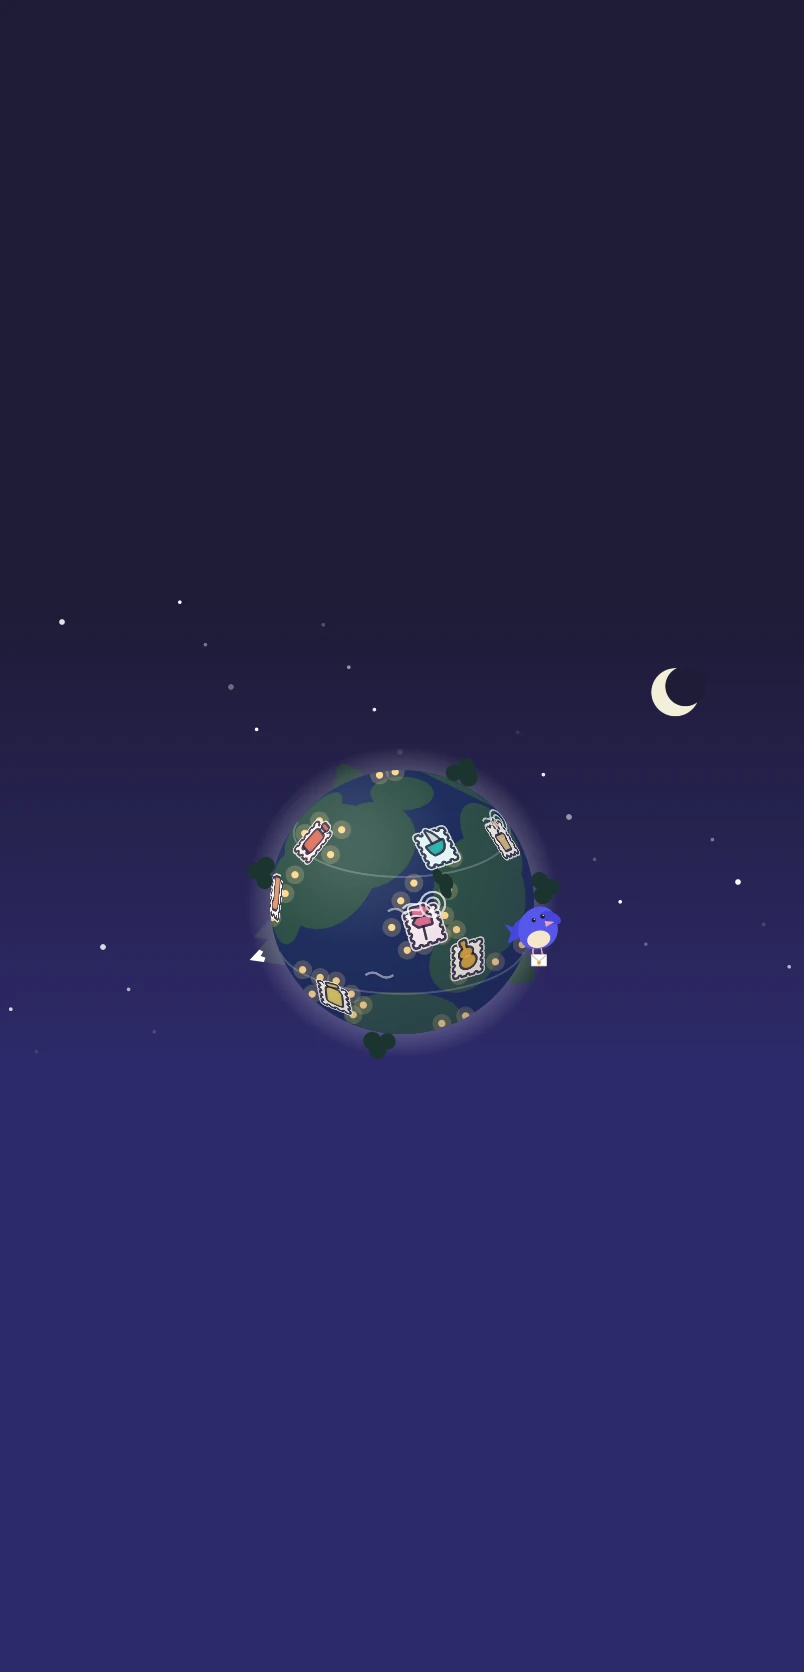
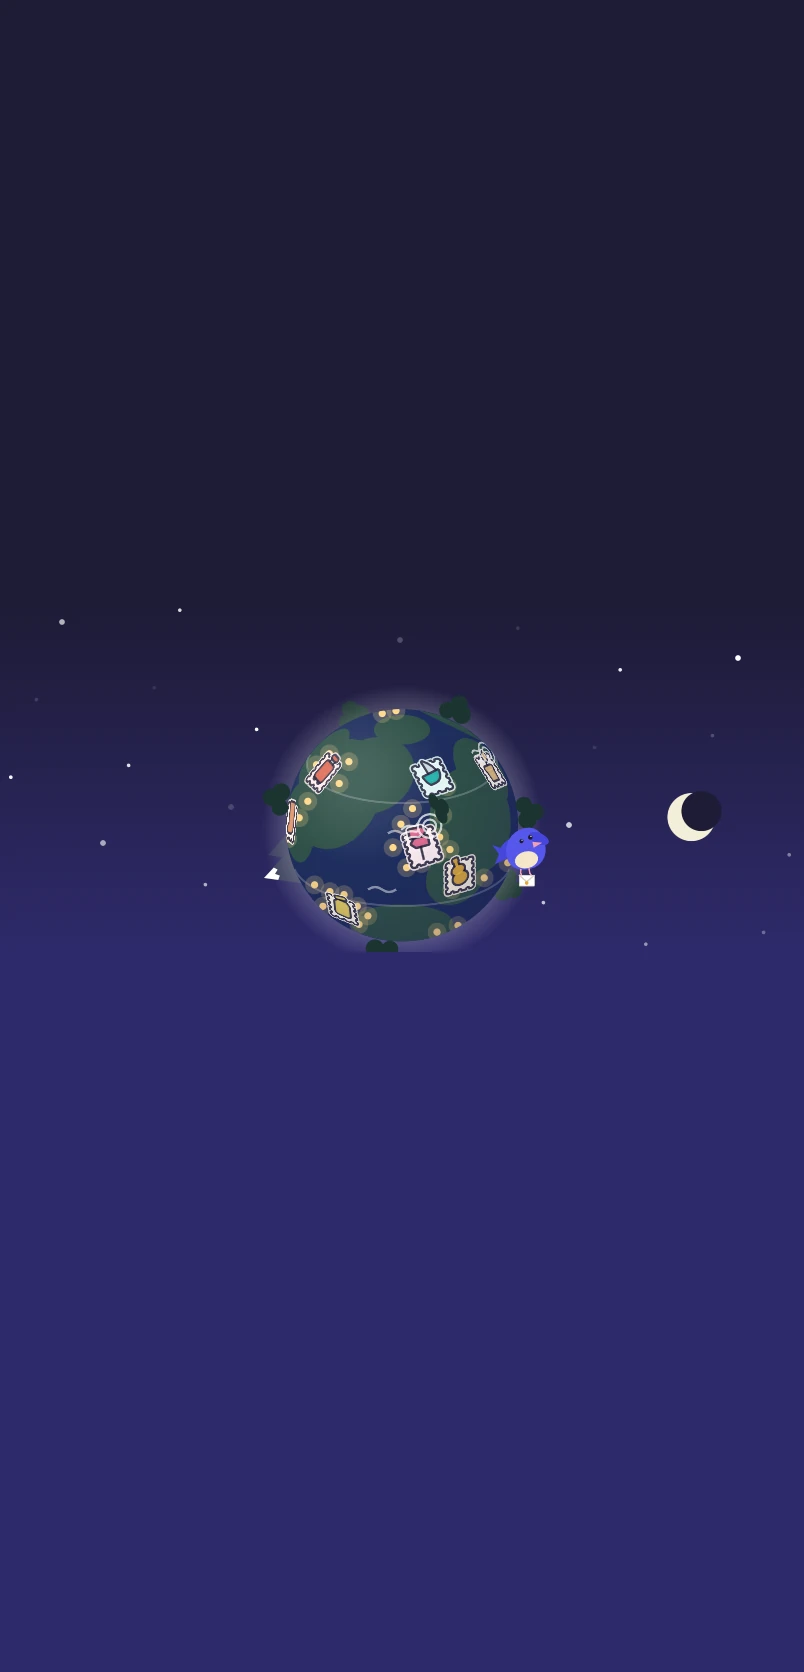
The cover prototype, round three: a shorter cover, the badge with her journey
The owner: the cover shows too much, his face a little higher; her card is the badge's head
(without KINDREDLY POST) with her standing as the journey's card has her, and her journey; and
the sign-and-gender pill under the name, as his older product has it. Under the cover now: the
name, that pill, two numbers (kindreds, pen pals), Edit and the gear. The two ways in on the
cover are a picture and a number each.

Changed region(s): [[0.3109, 0.4043, 0.7152, 0.6531], [0.8085, 0.4665, 0.9017, 0.5287], [0.8085, 0.4043, 0.8706, 0.4354]]

diff --git a/design/courier-planet/cover-prototype/me-cover.html b/design/courier-planet/cover-prototype/me-cover.html
@@ -69,9 +69,9 @@ h1 { font-size: 24px; line-height: 1.25; margin: 0; font-weight: 650; text-wrap:
   font-family: -apple-system, BlinkMacSystemFont, "SF Pro Text", "Helvetica Neue", sans-serif;
 }
 .phone.held { cursor: grabbing; }
-.banner { position: absolute; left: 0; top: 0; width: 402px; height: 268px; overflow: hidden; z-index: 2; background: #E3F3FB; }
+.banner { position: absolute; left: 0; top: 0; width: 402px; height: 196px; overflow: hidden; z-index: 2; background: #E3F3FB; }
 .phone.night .banner { background: #2E2A6B; }
-.scene { position: absolute; left: 0; top: 0; width: 402px; height: 836px; max-width: none; transform-origin: 201px 451px; pointer-events: none; }
+.scene { position: absolute; left: 0; top: 0; width: 402px; height: 836px; max-width: none; transform-origin: 201px 412.6px; pointer-events: none; }
 .island { position: absolute; left: 138px; top: 11px; width: 126px; height: 37px; border-radius: 19px; background: #000; z-index: 6; pointer-events: none; }
 .status { position: absolute; left: 0; top: 0; width: 402px; height: 54px; z-index: 6; pointer-events: none; color: #1E1B35; }
 .phone.night .status, .phone.night .bar, .phone.night .pullhint { color: #FFFFFF; }
@@ -79,10 +79,10 @@ h1 { font-size: 24px; line-height: 1.25; margin: 0; font-weight: 650; text-wrap:
 .status .batt { position: absolute; right: 34px; top: 21px; width: 27px; height: 13px; border-radius: 4px; border: 1.5px solid currentColor; opacity: .9; }
 .status .batt::after { content: ""; position: absolute; left: 2px; top: 2px; bottom: 2px; width: 15px; border-radius: 1.5px; background: currentColor; }
 .pullhint { position: absolute; left: 16px; top: 62px; font: 600 9.5px/1 var(--label); letter-spacing: .14em; opacity: .6; color: #1F5C33; pointer-events: none; }
-.chips { position: absolute; left: 14px; bottom: 12px; display: flex; gap: 8px; }
+.chips { position: absolute; left: 14px; bottom: 10px; display: flex; gap: 8px; }
 .chip {
-  display: inline-flex; align-items: center; gap: 7px; height: 34px; padding: 0 11px 0 7px; border-radius: 11px;
-  font: 700 11px/1 var(--label); letter-spacing: .12em; background: rgba(255, 255, 255, .72); color: #1E1B35;
+  display: inline-flex; align-items: center; gap: 6px; height: 34px; padding: 0 11px 0 7px; border-radius: 11px;
+  font: 700 13px/1 var(--label); letter-spacing: .04em; background: rgba(255, 255, 255, .72); color: #1E1B35; font-variant-numeric: tabular-nums;
 }
 .chip img { display: block; flex: none; }
 .phone.night .chip { background: rgba(255, 255, 255, .16); color: #FFFFFF; }
@@ -90,21 +90,23 @@ h1 { font-size: 24px; line-height: 1.25; margin: 0; font-weight: 650; text-wrap:
 .bar .n { font: 600 17px/1 -apple-system, "SF Pro Text", sans-serif; flex: 1; }
 .bar svg { width: 20px; height: 20px; flex: none; }
 .avatar {
-  position: absolute; right: 16px; top: 224px; width: 88px; height: 88px; border-radius: 50%; z-index: 4;
+  position: absolute; right: 16px; top: 138px; width: 88px; height: 88px; border-radius: 50%; z-index: 4;
   background: #CFE3F5; box-shadow: 0 0 0 4px #FFFFFF; transform-origin: 50% 100%; pointer-events: none;
 }
 .avatar::after { content: ""; position: absolute; left: 30px; top: 30px; width: 28px; height: 28px; border-radius: 50%; background: #55607C; }
 .content { position: absolute; left: 0; top: 0; width: 402px; z-index: 1; background: #FFFFFF; will-change: transform; }
-.id { padding: 14px 16px 8px; }
-.id .name { font: 700 22px/1.15 -apple-system, "SF Pro Display", sans-serif; letter-spacing: -.01em; padding-right: 112px; }
-.id .facts { margin-top: 7px; font: 400 15px/1.2 -apple-system, sans-serif; color: #55506E; }
-.id .facts b { font-weight: 600; color: #1E1B35; font-variant-numeric: tabular-nums; }
-.id .facts svg { width: 11px; height: 11px; vertical-align: -1px; color: #B6B2D0; }
-.id .row { margin-top: 10px; display: flex; align-items: center; }
-.id .joined { font: 400 13px/1 -apple-system, sans-serif; color: #55506E; }
+.id { padding: 12px 16px 12px; }
+.id .name { font: 700 24px/1.15 -apple-system, "SF Pro Display", sans-serif; letter-spacing: -.01em; padding-right: 112px; }
+.id .sign { margin-top: 9px; display: inline-flex; align-items: center; gap: 5px; height: 26px; padding: 0 11px 0 8px; border-radius: 13px; background: #F1F0EE; color: #55506E; font: 500 13px/1 -apple-system, sans-serif; }
+.id .sign svg { width: 15px; height: 15px; flex: none; }
+.id .sign span { margin-left: 1px; }
+.id .tick { margin-top: 14px; width: 28px; height: 2px; border-radius: 1px; background: #E6E4EC; }
+.id .row { margin-top: 12px; display: flex; align-items: center; gap: 30px; }
+.id .stat b { display: block; font: 600 20px/1 -apple-system, sans-serif; font-variant-numeric: tabular-nums; }
+.id .stat span { display: block; margin-top: 6px; font: 400 13px/1 -apple-system, sans-serif; color: #8A86A3; }
 .id .acts { margin-left: auto; display: flex; align-items: center; gap: 8px; }
-.id .edit { display: inline-flex; align-items: center; gap: 6px; height: 34px; padding: 0 14px 0 12px; border-radius: 17px; background: #F1F0EE; font: 600 14px/1 -apple-system, sans-serif; }
-.id .gear { width: 34px; height: 34px; border-radius: 50%; background: #F1F0EE; display: grid; place-items: center; }
+.id .edit { display: inline-flex; align-items: center; gap: 6px; height: 36px; padding: 0 18px 0 14px; border-radius: 18px; background: #FFFFFF; box-shadow: inset 0 0 0 1px #E6E4EC; font: 600 14px/1 -apple-system, sans-serif; }
+.id .gear { width: 36px; height: 36px; border-radius: 50%; background: #FFFFFF; box-shadow: inset 0 0 0 1px #E6E4EC; display: grid; place-items: center; }
 .id .edit svg { width: 15px; height: 15px; }
 .id .gear svg { width: 19px; height: 19px; }
 .content img { display: block; width: 402px; max-width: none; height: auto; pointer-events: none; }
@@ -142,12 +144,10 @@ h1 { font-size: 24px; line-height: 1.25; margin: 0; font-weight: 650; text-wrap:
     </section>
 
     <section class="group" aria-labelledby="g-mini">
-      <h2 id="g-mini">信使那张卡（不随时间变；点 Open 进她的详情页）</h2>
+      <h2 id="g-mini">信使那张卡：工牌 + 成长旅程</h2>
       <div class="seg" data-key="mini">
-        <button type="button" data-v="hill">她的小山坡</button>
-        <button type="button" data-v="perch">白底 · 线稿栖木</button>
-        <button type="button" data-v="badge">工牌</button>
-        <button type="button" data-v="journey">成长旅程</button>
+        <button type="button" data-v="combo">她还在长</button>
+        <button type="button" data-v="grown">已经长成</button>
       </div>
       <p class="note" id="n-mini"></p>
     </section>
@@ -161,9 +161,10 @@ h1 { font-size: 24px; line-height: 1.25; margin: 0; font-weight: 650; text-wrap:
     </section>
 
     <ul class="list">
-      <li><b>封面左下两个入口</b>换成了东西本身的小图：两枚真邮票、一只红邮筒。设置和编辑用的是 App 里现成的齿轮和笔。</li>
-      <li><b>封面</b>就是星球那一幕。星球本身照旧能用手指转（原型里是张图，转不了）；在星球以外的地方往下拉，才是展开。</li>
-      <li><b>拉下来</b>就是现在的星球页，一点没改。</li>
+      <li><b>封面压矮了</b>，和你老产品差不多高；星球跟着小一圈。头像往上提了一些。</li>
+      <li><b>封面左下</b>两个入口只留小图和数字：邮票 7、信 14。</li>
+      <li><b>名字下面</b>照你老产品：性别和星座那一条，然后两个数（kindreds、pen pals），右边是 Edit 和设置。</li>
+      <li><b>封面上的星球</b>照旧能用手指转（原型里是张图，转不了）；在星球以外的地方往下拉，才是展开。拉下来就是现在的星球页。</li>
       <li><b>再往下</b>是 Aura 和写作报告并排，然后是 First Class 卡。「动态」的位置先空着，日记以后再说。</li>
     </ul>
   </div>
@@ -173,10 +174,10 @@ h1 { font-size: 24px; line-height: 1.25; margin: 0; font-weight: 650; text-wrap:
       <div class="phone" id="phone" tabindex="0" aria-label="Me 页原型，可上下拖动">
         <div class="banner" id="banner">
           <img class="scene" id="scene" alt="">
-          <div class="pullhint" id="pullhint">DRAG TO SPIN · PULL DOWN</div>
+          <div class="pullhint" id="pullhint">DRAG TO SPIN</div>
           <div class="chips" id="chips">
-            <span class="chip"><img src="img/ic-stamps.webp" width="28" height="24" alt="">STAMPS 7</span>
-            <span class="chip"><img src="img/ic-mailbox.webp" width="22" height="24" alt="">LETTERS 14</span>
+            <span class="chip"><img src="img/ic-stamps.webp" width="28" height="24" alt="Stamps">7</span>
+            <span class="chip"><img src="img/ic-mailbox.webp" width="22" height="24" alt="Letters">14</span>
           </div>
           <div class="bar" id="bar">
             <span class="n">Sunday Kite</span>
@@ -190,9 +191,11 @@ h1 { font-size: 24px; line-height: 1.25; margin: 0; font-weight: 650; text-wrap:
         <div class="content" id="content">
           <div class="id">
             <div class="name">Sunday Kite</div>
-            <div class="facts"><span class="k"><b>2</b> kindreds <svg viewBox="0 0 24 24" fill="none" stroke="currentColor" stroke-width="2.4" stroke-linecap="round" stroke-linejoin="round"><path d="M6 9l6 6 6-6"/></svg></span></div>
+            <div class="sign"><svg viewBox="0 0 24 24" fill="none" stroke="currentColor" stroke-width="2" stroke-linecap="round" stroke-linejoin="round"><path d="M14.25 14.25a4.5 4.5 0 1 1-9 0 4.5 4.5 0 0 1 9 0z M12.93 11.07 18.75 5.25 M13.5 5.25h5.25v5.25"/></svg><svg viewBox="0 0 24 24" fill="none" stroke="currentColor" stroke-width="2" stroke-linecap="round" stroke-linejoin="round"><path d="M3.5 6c1-.8 2-.3 2 1v9 M5.5 7a2.25 2.25 0 0 1 4.5 0v9 M10 7a2.25 2.25 0 0 1 4.5 0V14.75c0 1.6 1.2 2.75 2.75 2.75H20.5 M18.3 15.3l2.2 2.2-2.2 2.2"/></svg><span>Scorpio</span></div>
+            <div class="tick"></div>
             <div class="row">
-              <span class="joined">joined Jul 27</span>
+              <div class="stat"><b>2</b><span>kindreds</span></div>
+              <div class="stat"><b>5</b><span>pen pals</span></div>
               <div class="acts">
                 <span class="edit"><svg viewBox="0 0 24 24" fill="none" stroke="currentColor" stroke-width="1.9" stroke-linecap="round" stroke-linejoin="round"><path d="M12 20h9 M16.5 3.5a2.1 2.1 0 0 1 3 3L7 19l-4 1 1-4L16.5 3.5z"/></svg>Edit</span>
                 <span class="gear"><svg viewBox="0 0 24 24" fill="none" stroke="currentColor" stroke-width="1.9" stroke-linecap="round" stroke-linejoin="round"><path d="M12.22 2h-.44a2 2 0 0 0-2 2v.18a2 2 0 0 1-1 1.73l-.43.25a2 2 0 0 1-2 0l-.15-.08a2 2 0 0 0-2.73.73l-.22.38a2 2 0 0 0 .73 2.73l.15.1a2 2 0 0 1 1 1.72v.51a2 2 0 0 1-1 1.74l-.15.09a2 2 0 0 0-.73 2.73l.22.38a2 2 0 0 0 2.73.73l.15-.08a2 2 0 0 1 2 0l.43.25a2 2 0 0 1 1 1.73V20a2 2 0 0 0 2 2h.44a2 2 0 0 0 2-2v-.18a2 2 0 0 1 1-1.73l.43-.25a2 2 0 0 1 2 0l.15.08a2 2 0 0 0 2.73-.73l.22-.39a2 2 0 0 0-.73-2.73l-.15-.08a2 2 0 0 1-1-1.74v-.5a2 2 0 0 1 1-1.74l.15-.09a2 2 0 0 0 .73-2.73l-.22-.38a2 2 0 0 0-2.73-.73l-.15.08a2 2 0 0 1-2 0l-.43-.25a2 2 0 0 1-1-1.73V4a2 2 0 0 0-2-2z"/><circle cx="12" cy="12" r="3"/></svg></span>
@@ -213,16 +216,16 @@ h1 { font-size: 24px; line-height: 1.25; margin: 0; font-weight: 650; text-wrap:
 
 <script>
 (function () {
-  var B0 = 268, BAR = 98, P = 150, FULL = 874;
+  var B0 = 196, BAR = 98, P = 150, FULL = 874;
+  // the planet in the scene's picture (its centre, in the picture's own points), where it rests in the cover, and where the planet page has it
+  var PY = 412.6, REST = 116, PAGE = 226, GROW = 100 / 58;
   var NOTES = {
-    hill: "她详情页开头那一幕缩小了放进来：YOUR COURIER、DAY 12、她站在自己的小山坡上、她说的一句。颜色固定用她的绿，几点看都一样，也不会和上面的天空封面撞。",
-    perch: "白底，和下面几格是一家。她站在一根墨线画的树枝上，和 Aura 那格的线稿是同一种画法；整张卡只有她有颜色。",
-    badge: "邮局给她的工牌：照片、名字、YOUR COURIER、第几天、长到哪一步。信息最清楚，但少了她说话的那一句。",
-    journey: "把详情页的「Pip's Journey」带出来：蛋、破壳、学飞、长成四步，她现在在哪一步、下一步要什么。她还没长成的那段时间最有用。"
+    combo: "工牌的头部（去掉了 KINDREDLY POST），她站在小土坡上；下面是她的成长旅程，四步里她走到哪一步、下一步要什么；再下面是 flight log 和皮肤一排。点 Open 进她的详情页。",
+    grown: "她长成以后，成长那一排收起来，工牌上多一个 GROWN。卡片短一截，下面的 Aura 和报告就上来了。"
   };
-  var opt = { mini: "hill", hour: "day" };
+  var opt = { mini: "combo", hour: "day" };
   try {
-    var saved = JSON.parse(localStorage.getItem("me-cover-2") || "{}");
+    var saved = JSON.parse(localStorage.getItem("me-cover-3") || "{}");
     if (NOTES[saved.mini]) opt.mini = saved.mini;
     if (saved.hour === "day" || saved.hour === "night") opt.hour = saved.hour;
   } catch (e) {}
@@ -242,13 +245,13 @@ h1 { font-size: 24px; line-height: 1.25; margin: 0; font-weight: 650; text-wrap:
   function layout() {
     var t = clamp(st.pull / P, 0, 1), k = st.k;
     var h, cy, s;
-    if (st.scroll > 0 && k === 0) { h = Math.max(BAR, B0 - st.scroll); cy = 151 - st.scroll; s = 1; }
-    else { h = B0 + st.pull; cy = 151 + st.pull * 0.5; s = 1 + 0.515 * t; }
-    if (k > 0) { h = lerp(h, FULL, k); cy = lerp(cy, 226, k); s = lerp(s, 1.515, k); }
+    if (st.scroll > 0 && k === 0) { h = Math.max(BAR, B0 - st.scroll); cy = REST - st.scroll; s = 1; }
+    else { h = B0 + st.pull; cy = lerp(REST, PAGE, t); s = lerp(1, GROW, t); }
+    if (k > 0) { h = lerp(h, FULL, k); cy = lerp(cy, PAGE, k); s = lerp(s, GROW, k); }
     var over = Math.max(0, st.scroll - (B0 - BAR));
     var folded = clamp((st.scroll - (B0 - BAR - 46)) / 46, 0, 1);
     banner.style.height = h + "px";
-    scene.style.transform = "translateY(" + (cy - 451) + "px) scale(" + s + ")";
+    scene.style.transform = "translateY(" + (cy - PY) + "px) scale(" + s + ")";
     content.style.transform = "translateY(" + (h - over + k * 240) + "px)";
     content.style.opacity = String(1 - k);
     avatar.style.transform = "translateY(" + (h - B0) + "px) scale(" + lerp(1, 0.5, clamp(st.scroll / 110, 0, 1)) + ")";
@@ -338,7 +341,7 @@ h1 { font-size: 24px; line-height: 1.25; margin: 0; font-weight: 650; text-wrap:
       var key = seg.getAttribute("data-key");
       seg.querySelectorAll("button").forEach(function (b) { b.setAttribute("aria-pressed", b.getAttribute("data-v") === opt[key] ? "true" : "false"); });
     });
-    try { localStorage.setItem("me-cover-2", JSON.stringify(opt)); } catch (e) {}
+    try { localStorage.setItem("me-cover-3", JSON.stringify(opt)); } catch (e) {}
     new Image().src = "img/scene-" + (opt.hour === "day" ? "night" : "day") + ".webp";
     new Image().src = "img/page-" + (opt.hour === "day" ? "night" : "day") + ".webp";
     Object.keys(NOTES).forEach(function (m) { if (m !== opt.mini) new Image().src = "img/mini-" + m + ".webp"; });

diff --git a/design/courier-planet/checks/me-banner.swift b/design/courier-planet/checks/me-banner.swift
@@ -6,12 +6,12 @@ import UIKit
 
 /* THE COVER IDEA (owner, 2026-11-11 night: "me tab 的结构就改成和我老产品一模一样的"): the pieces the
    prototype in design/courier-planet/cover-prototype is put together from — the planet's scene
-   as a cover (with plain sky above and below it to stretch into), the planet page a pull-down
-   opens, her card as a miniature of her own page (round one: a fixed sky, or on white; round
-   two, after "信使那块除了白底还有啥好的设计": her hill in her own green, an ink perch on white, her
-   badge, her journey — none changes with the hour), the cover's two ways in as small pictures
-   (two real stamps, a red postbox), and the Aura and report tiles side by side over the First
-   Class card. Not built in the app.
+   as a cover (a smaller planet, with plain sky above and below it to stretch into), the planet
+   page a pull-down opens, her card as a miniature of her own page (round one: a fixed sky, or on
+   white; round two: her hill, an ink perch, her badge, her journey; round three, what the owner
+   took: the badge's head with her standing on her mound, and her journey while she grows —
+   miniCombo), the cover's two ways in as small pictures (two real stamps, a red postbox), and the
+   Aura and report tiles side by side over the First Class card. Not built in the app.
    design/courier-planet/checks/render-fast.sh me-banner.swift <out dir>
 
    The helpers below are me-sheet.swift's.
@@ -239,12 +239,13 @@ func pageContent(_ c: Case) -> KPlanetPageContent {
 
 // ── the banner's scene: the card's scene, with plain sky above and below it to stretch into ──
 @MainActor func bannerScene(_ c: Case) -> some View {
-  let p = planet(c)
+  var p = planet(c)
+  p.planet.palette.sunAt = CGPoint(x: 0.86, y: 0.46)
   return VStack(spacing: 0) {
     p.planet.palette.sky0.frame(width: 402, height: 300)
     KPlanetView(kind: .card, content: p.planet, probe: KPlanetProbe())
-      .frame(width: 402, height: 236)
-    p.planet.palette.sky1.frame(width: 402, height: 300)
+      .frame(width: 402, height: 176)
+    p.planet.palette.sky1.frame(width: 402, height: 360)
   }
 }
 
@@ -573,6 +574,77 @@ let SUB2 = KTheme.classic.sub
   }
 }
 
+/// Round three (owner: the badge's head without KINDREDLY POST, her standing as the journey's
+/// card has her, and her journey): her badge with her journey on it while she is still growing;
+/// grown, the journey folds away and the badge says so.
+@MainActor func miniCombo(_ c: Case, grown: Bool) -> some View {
+  let now = 2 // fledge
+  let stages: [(KWrenStage, String)] = [(.egg, "EGG"), (.hatch, "HATCH"), (.fledge, "FLEDGE"), (.wren, "GROWN")]
+  var who = c
+  who.look = KWrenLook(skin: .sticker, stage: grown ? .wren : .fledge)
+  return herCard(who) {
+    VStack(alignment: .leading, spacing: 0) {
+      Capsule().fill(SOFT2).frame(width: 42, height: 8)
+        .frame(maxWidth: .infinity)
+        .padding(.top, 11)
+      HStack(alignment: .center, spacing: 12) {
+        ZStack(alignment: .bottom) {
+          Ellipse().fill(SOFT2).frame(width: 100, height: 26)
+          KWrenBird(who.look, size: 92).offset(y: -9)
+        }
+        .frame(width: 108, height: 98)
+        VStack(alignment: .leading, spacing: 0) {
+          Text("Pip")
+            .font(.system(size: 28, weight: .bold))
+            .foregroundColor(INK2)
+          Text("YOUR COURIER")
+            .kText(.mono(10, .bold, tracking: 0.16))
+            .foregroundStyle(Color(hex: "#1F5C33"))
+            .padding(.top, 4)
+          HStack(spacing: 6) {
+            tag("DAY 12")
+            if grown { tag("GROWN") }
+          }
+          .padding(.top, 9)
+        }
+        Spacer(minLength: 0)
+      }
+      .padding(.top, 4)
+      if !grown {
+        VStack(alignment: .leading, spacing: 7) {
+          Text("PIP'S JOURNEY")
+            .kText(.mono(8.5, .semibold, tracking: 0.18))
+            .foregroundStyle(SUB2)
+          HStack(alignment: .top, spacing: 0) {
+            ForEach(Array(stages.enumerated()), id: \.offset) { i, st in
+              VStack(spacing: 4) {
+                ZStack {
+                  Circle().fill(i == now ? Color.white : SOFT2)
+                  if i == now { Circle().strokeBorder(Color(hex: "#1F5C33"), lineWidth: 2.2) }
+                  KWrenBird(KWrenLook(skin: .sticker, stage: st.0), size: 28).opacity(i > now ? 0.3 : 1)
+                }
+                .frame(width: 42, height: 42)
+                Text(st.1)
+                  .kText(.mono(8.5, i == now ? .bold : .semibold, tracking: 0.12))
+                  .foregroundStyle(i == now ? INK2 : SUB2)
+              }
+              .frame(maxWidth: .infinity)
+            }
+          }
+          .background(alignment: .top) {
+            Rectangle().fill(KTheme.classic.line).frame(height: 1.5).padding(.horizontal, 44).offset(y: 20)
+          }
+          Text("NEXT · GROWN — FIRST KINDRED")
+            .kText(.mono(9.5, .semibold, tracking: 0.12))
+            .foregroundStyle(SUB2)
+        }
+        .padding(.top, 12)
+      }
+    }
+    .padding(.horizontal, 16)
+  }
+}
+
 // ── the cover's two ways in: small pictures of the things themselves ──
 @MainActor func iconStamps() -> some View {
   ZStack(alignment: .leading) {
@@ -660,6 +732,8 @@ struct Shot {
     save(miniJourney(d), "\(dir)/mini-journey.png")
     save(iconStamps(), "\(dir)/ic-stamps.png")
     save(iconMailbox(), "\(dir)/ic-mailbox.png")
+    save(miniCombo(d, grown: false), "\(dir)/mini-combo.png")
+    save(miniCombo(d, grown: true), "\(dir)/mini-grown.png")
     save(rest(), "\(dir)/rest.png")
     print("wrote the banner mock's pieces to", dir)
   }
